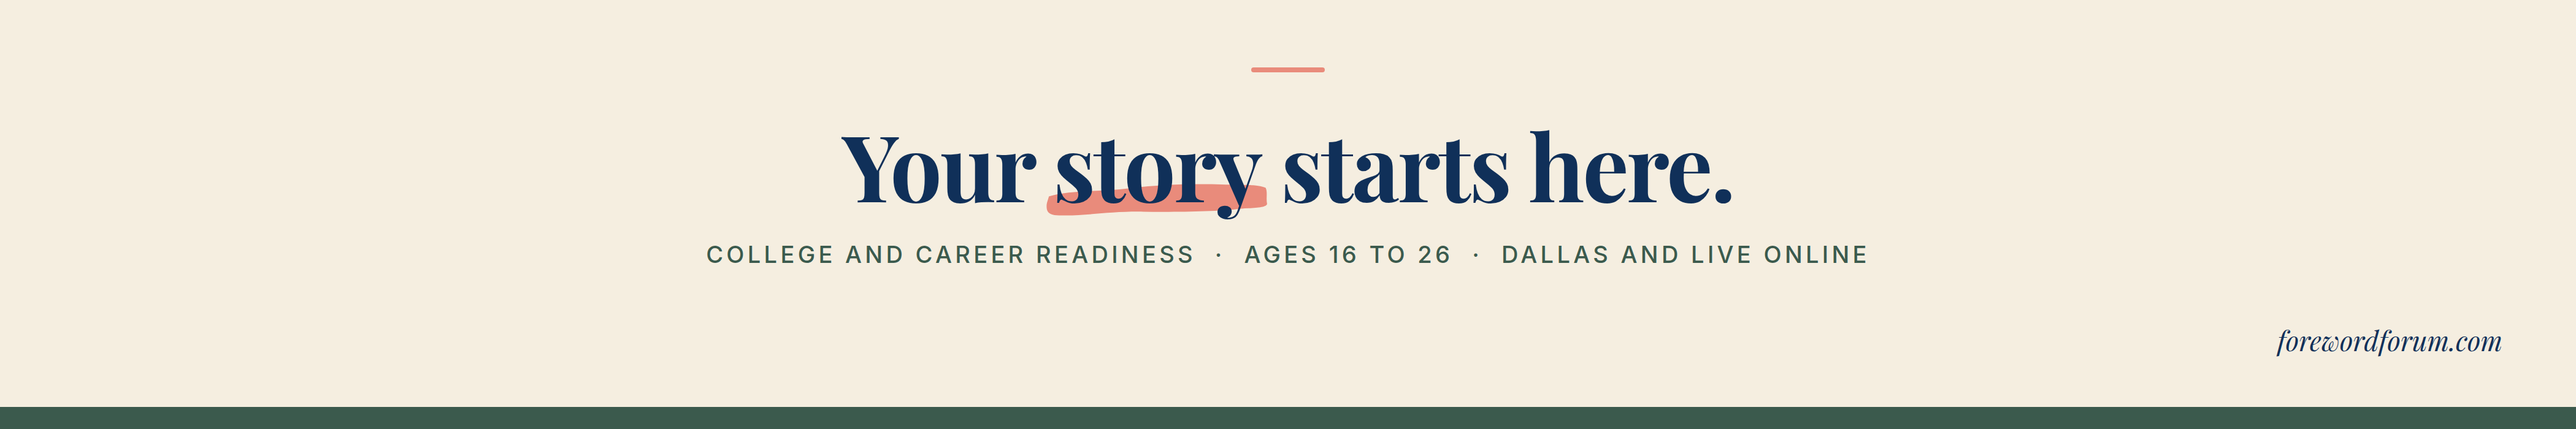
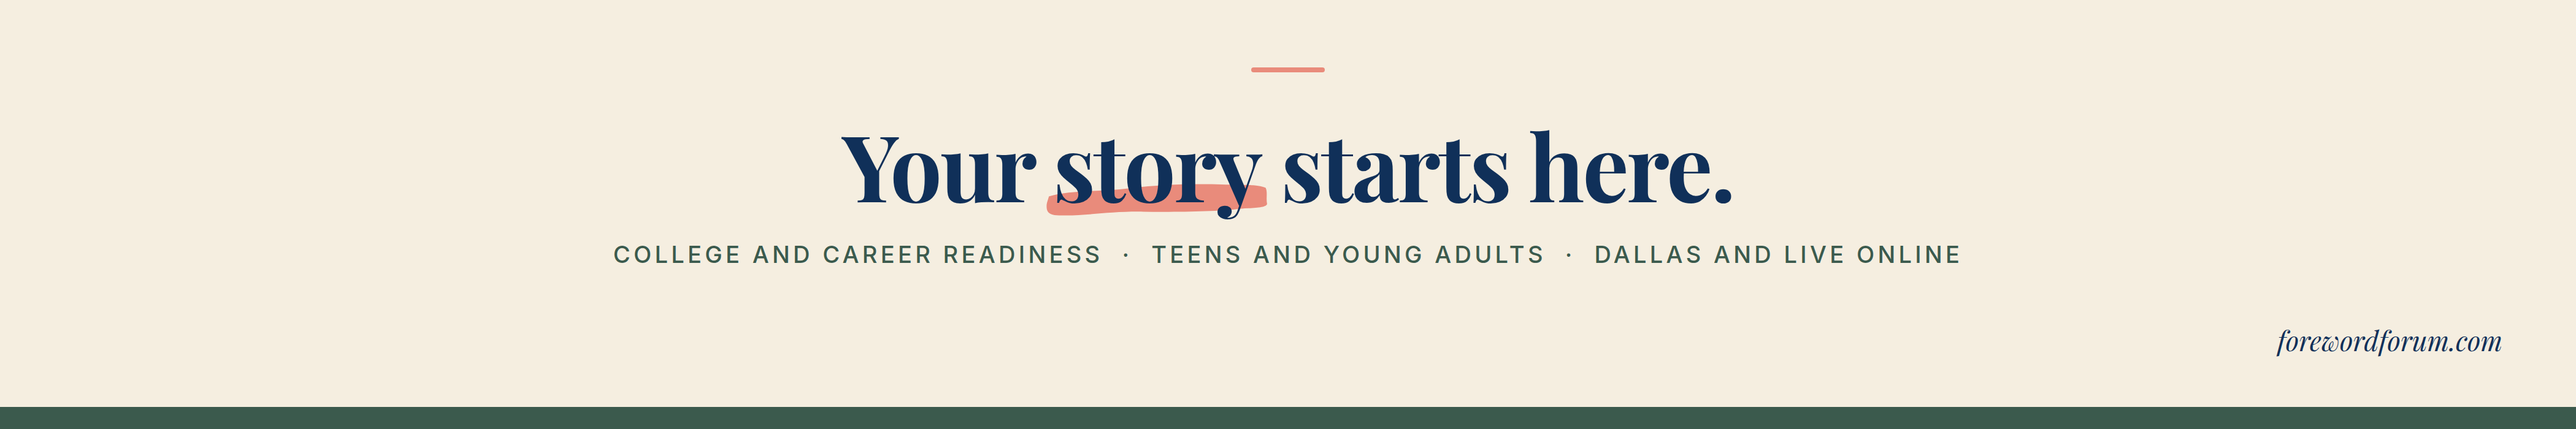
Describe the audience as teens and young adults instead of an age range
Claude-Session: https://claude.ai/code/session_01B4yVKFPJq9w6dReY1nJarT

Changed region(s): [[0.2183, 0.57, 0.7798, 0.63]]

diff --git a/content/home.ts b/content/home.ts
@@ -10,10 +10,10 @@ export const hero = {
   label: "Volume I begins October 15, 2026",
   // The word in `swipe` gets the coral highlighter.
   title: { before: "Your ", swipe: "story", after: " starts here." },
-  subhead: "College and career readiness for students ages 16 to 26, in Dallas and live online nationwide.",
+  subhead: "College and career readiness for teens and young adults, in Dallas and live online nationwide.",
   primary: { label: "Write your next chapter", href: "#waitlist" },
   secondary: { label: "See how it works", href: "#how-it-works" },
-  notes: ["Ages 16 to 26", "In person in Dallas", "Live online nationwide"],
+  notes: ["Teens and young adults", "In person in Dallas", "Live online nationwide"],
 };
 
 export const whatWeDo = {
@@ -36,7 +36,7 @@ export const programs = {
       name: "Speak Volumes",
       kind: "Empowerment track",
       icon: "chats",
-      body: "Our empowerment track for ages 16 to 26. Confidence, communication, and the skills that do not appear on a transcript but decide everything.",
+      body: "Our empowerment track for teens and young adults. Confidence, communication, and the skills that do not appear on a transcript but decide everything.",
     },
   ],
 } as const;

diff --git a/app/styleguide/page.tsx b/app/styleguide/page.tsx
@@ -86,7 +86,7 @@ export default function StyleguidePage() {
               ["Header · Playfair 600 · 44/32", <Header key="h" as="p">Write your next chapter.</Header>],
               ["Heading · Playfair 600 · 36/28", <Heading key="h2" as="p">How it works</Heading>],
               ["Pull quote · Playfair italic · 30/24", <PullQuote key="q">They are not lecturing at you. They are writing alongside you.</PullQuote>],
-              ["Subtitle · Playfair italic · 24/20", <Subtitle key="s">College and career readiness for students ages 16 to 26.</Subtitle>],
+              ["Subtitle · Playfair italic · 24/20", <Subtitle key="s">College and career readiness for teens and young adults.</Subtitle>],
               ["Subheading · Inter 600 · 22/19", <Subheading key="h3" as="p">Meet your Co-Author</Subheading>],
               [
                 "Body · Inter 400 · 18/16 · 1.65",

diff --git a/content/site.ts b/content/site.ts
@@ -11,7 +11,7 @@ export const site = {
   email: "hello@forewordforum.com",
   title: "Foreword Forum | College and career readiness in Dallas and online",
   description:
-    "College and career readiness for students ages 16 to 26, in Dallas and live online nationwide. Join the waitlist for Volume I, beginning October 15, 2026.",
+    "College and career readiness for teens and young adults, in Dallas and live online nationwide. Join the waitlist for Volume I, beginning October 15, 2026.",
   location: { city: "Dallas", region: "TX", country: "US" },
 };
 

diff --git a/README.md b/README.md
@@ -1,6 +1,6 @@
 # Foreword Forum website
 
-Marketing site for Foreword Forum, a Dallas-based college and career readiness program for students ages 16 to 26. Its main job is collecting waitlist signups for Volume I, which begins October 15, 2026. Foreword Forum officially launches October 1, 2026.
+Marketing site for Foreword Forum, a Dallas-based college and career readiness program for teens and young adults. Its main job is collecting waitlist signups for Volume I, which begins October 15, 2026. Foreword Forum officially launches October 1, 2026.
 
 Built with Next.js (App Router), TypeScript and Tailwind CSS.
 
